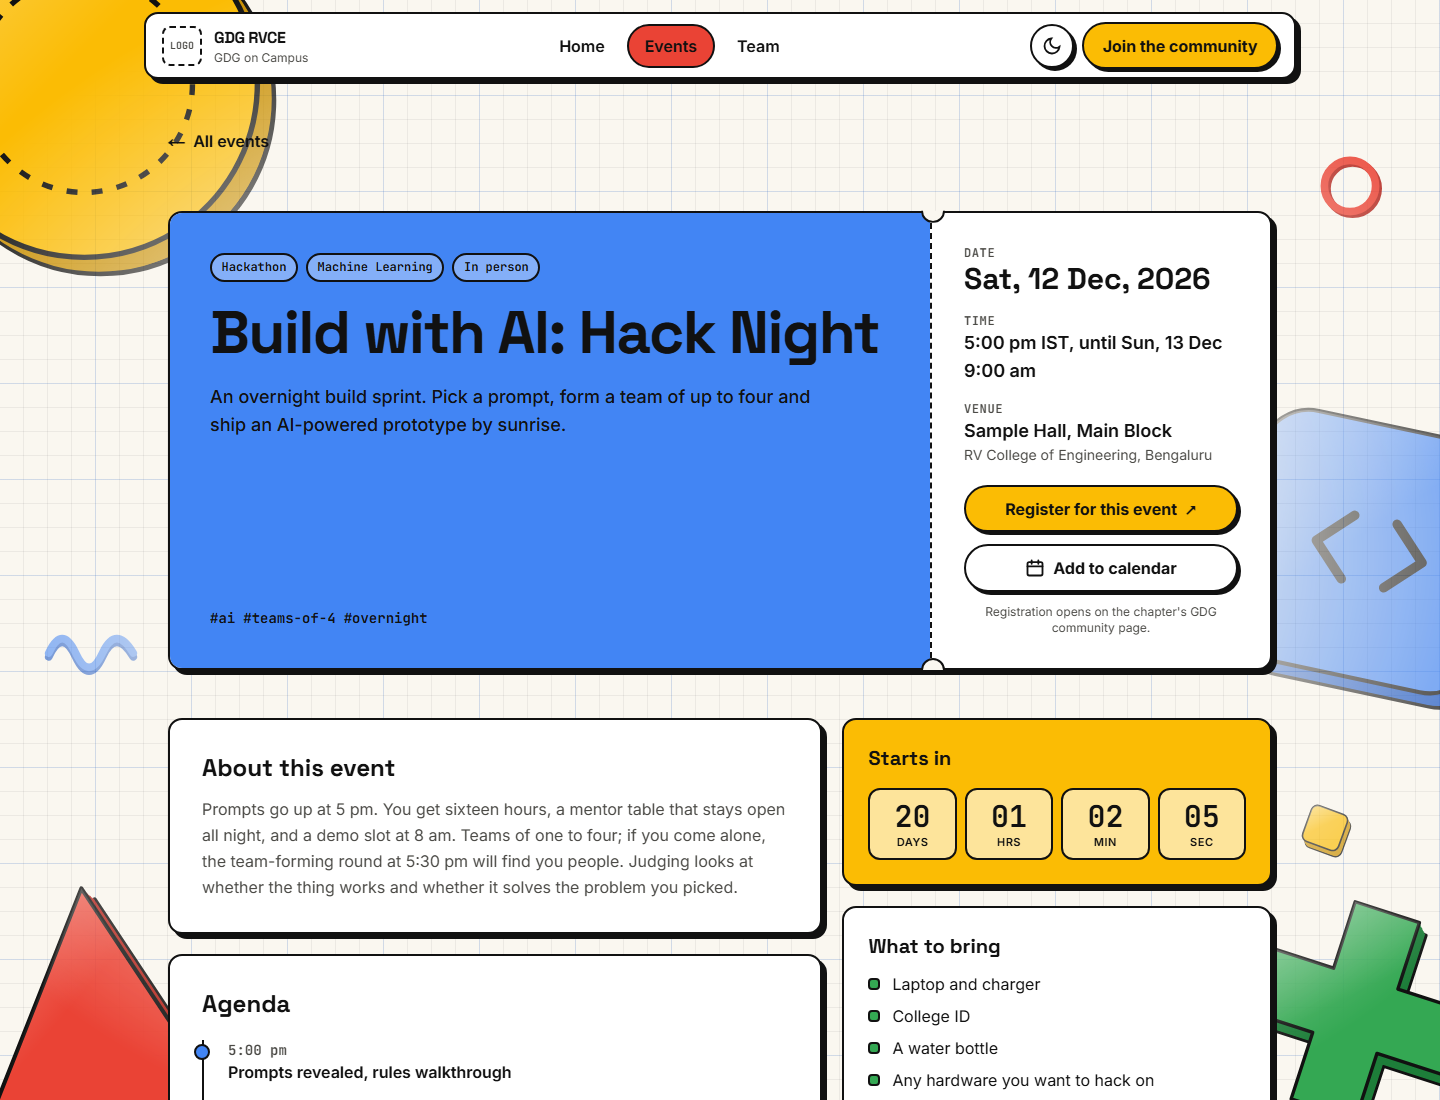
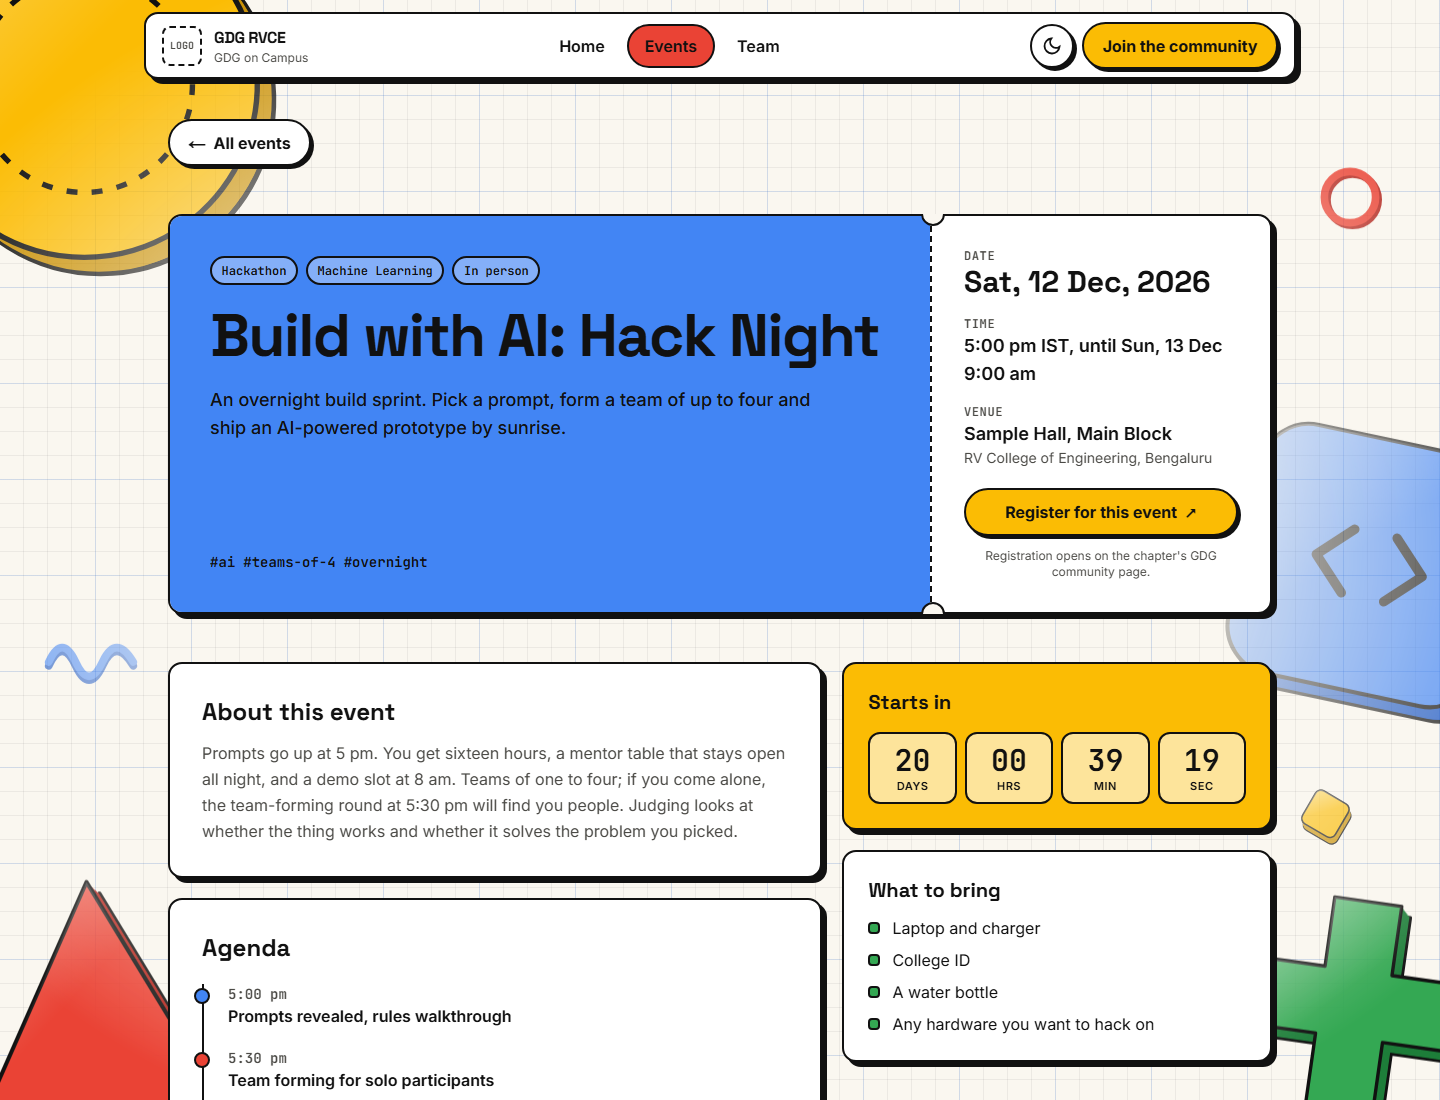
Remove Add to calendar; make the back link a button
The ticket stub now has a single Register action. The All events link gets a solid pill background so it stays readable over the background shapes.

diff --git a/src/app/events/[slug]/page.tsx b/src/app/events/[slug]/page.tsx
@@ -1,7 +1,6 @@
 import type { Metadata } from "next";
 import Link from "next/link";
 import { notFound } from "next/navigation";
-import { AddToCalendar } from "@/components/AddToCalendar";
 import { Countdown } from "@/components/Countdown";
 import { EventCard } from "@/components/EventCard";
 import { BG } from "@/lib/site";
@@ -34,7 +33,7 @@ export default async function EventDetailPage({ params }: Props) {
 
   return (
     <div className="space-y-12 pt-8 sm:pt-10">
-      <Link href="/events" className="inline-flex min-h-11 items-center gap-2 font-semibold underline-offset-4 hover:underline">
+      <Link href="/events" className="nb-btn bg-surface">
         <span aria-hidden="true">←</span> All events
       </Link>
 
@@ -98,7 +97,6 @@ export default async function EventDetailPage({ params }: Props) {
                   <span aria-hidden="true">↗</span>
                 </a>
               )}
-              <AddToCalendar event={event} />
               <p className="text-center text-xs text-muted">Registration opens on the chapter&apos;s GDG community page.</p>
             </div>
           )}

diff --git a/DESIGN_NOTE.md b/DESIGN_NOTE.md
@@ -33,7 +33,7 @@ All three are open source (SIL OFL) and loaded through `next/font`, so there is 
 
 ## Signature details
 
-- **Event pages are tickets:** a coloured main panel and a tear-off stub with a dashed perforation and punched notches. The stub holds what you need to attend: date, time, venue, "Register" and "Add to calendar".
+- **Event pages are tickets:** a coloured main panel and a tear-off stub with a dashed perforation and punched notches. The stub holds what you need to attend: date, time, venue and one "Register" action.
 - **Team members are ID badges** with a lanyard slot and a generated geometric avatar, which avoids photos of real people.
 - **An engineering-notebook backdrop:** faint graph paper with large Google-colour shapes drawn as thick 3D chips (extruded side, light sheen) at the screen edges. They drift a few pixels with the mouse at different depths, and as you scroll each one has its own small, bounded move: the disc's dashed ring turns, the code tile sways, the triangle floats. They fade toward the centre so text stays readable, and stay still for reduced motion.
 - **Two optional touches from the brief:** a live event countdown and light/dark themes.

diff --git a/README.md b/README.md
@@ -36,7 +36,7 @@ Each page is a grid of modular tiles of different sizes. Every tile holds one id
 - Results grouped by month, with a live count and an empty state
 - **Event detail page** designed as a ticket with a tear-off stub. It shows:
   - date, time and venue (or online details)
-  - a registration link and an "Add to calendar" menu (Google Calendar, Outlook.com or a .ics file)
+  - a registration link
   - the agenda, a countdown and what to bring
   - a recap instead of registration for past events
 
